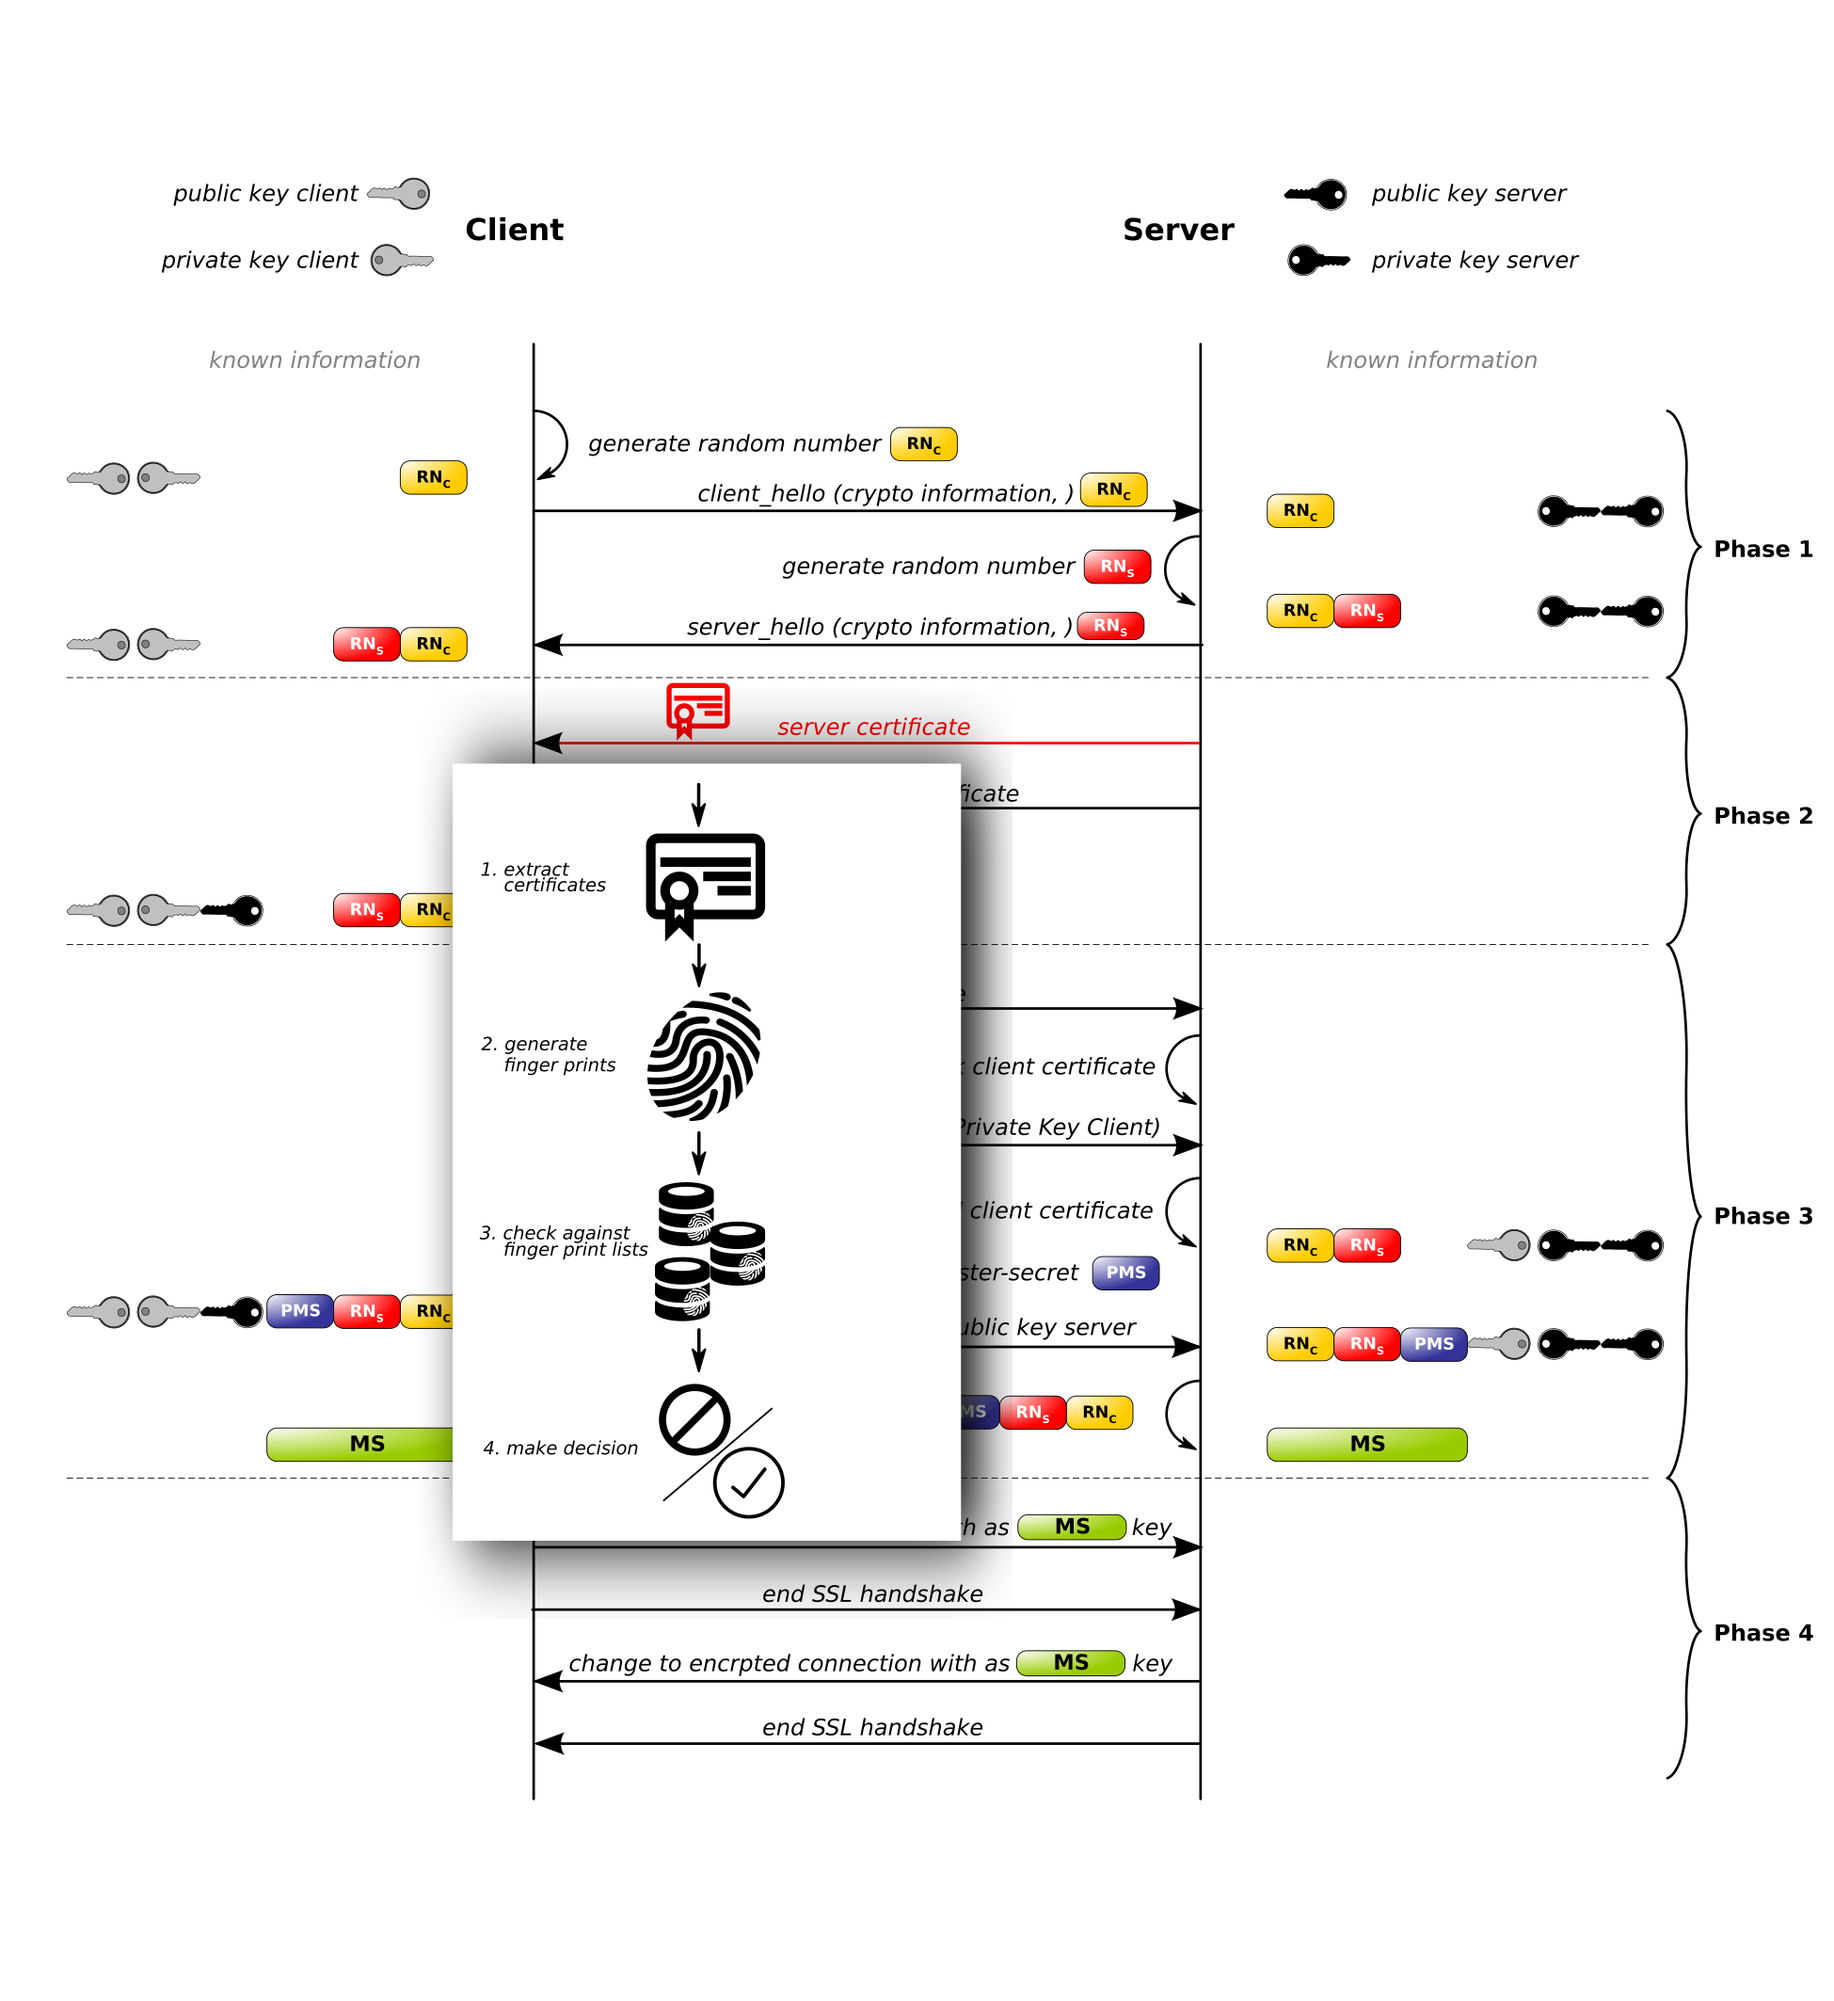
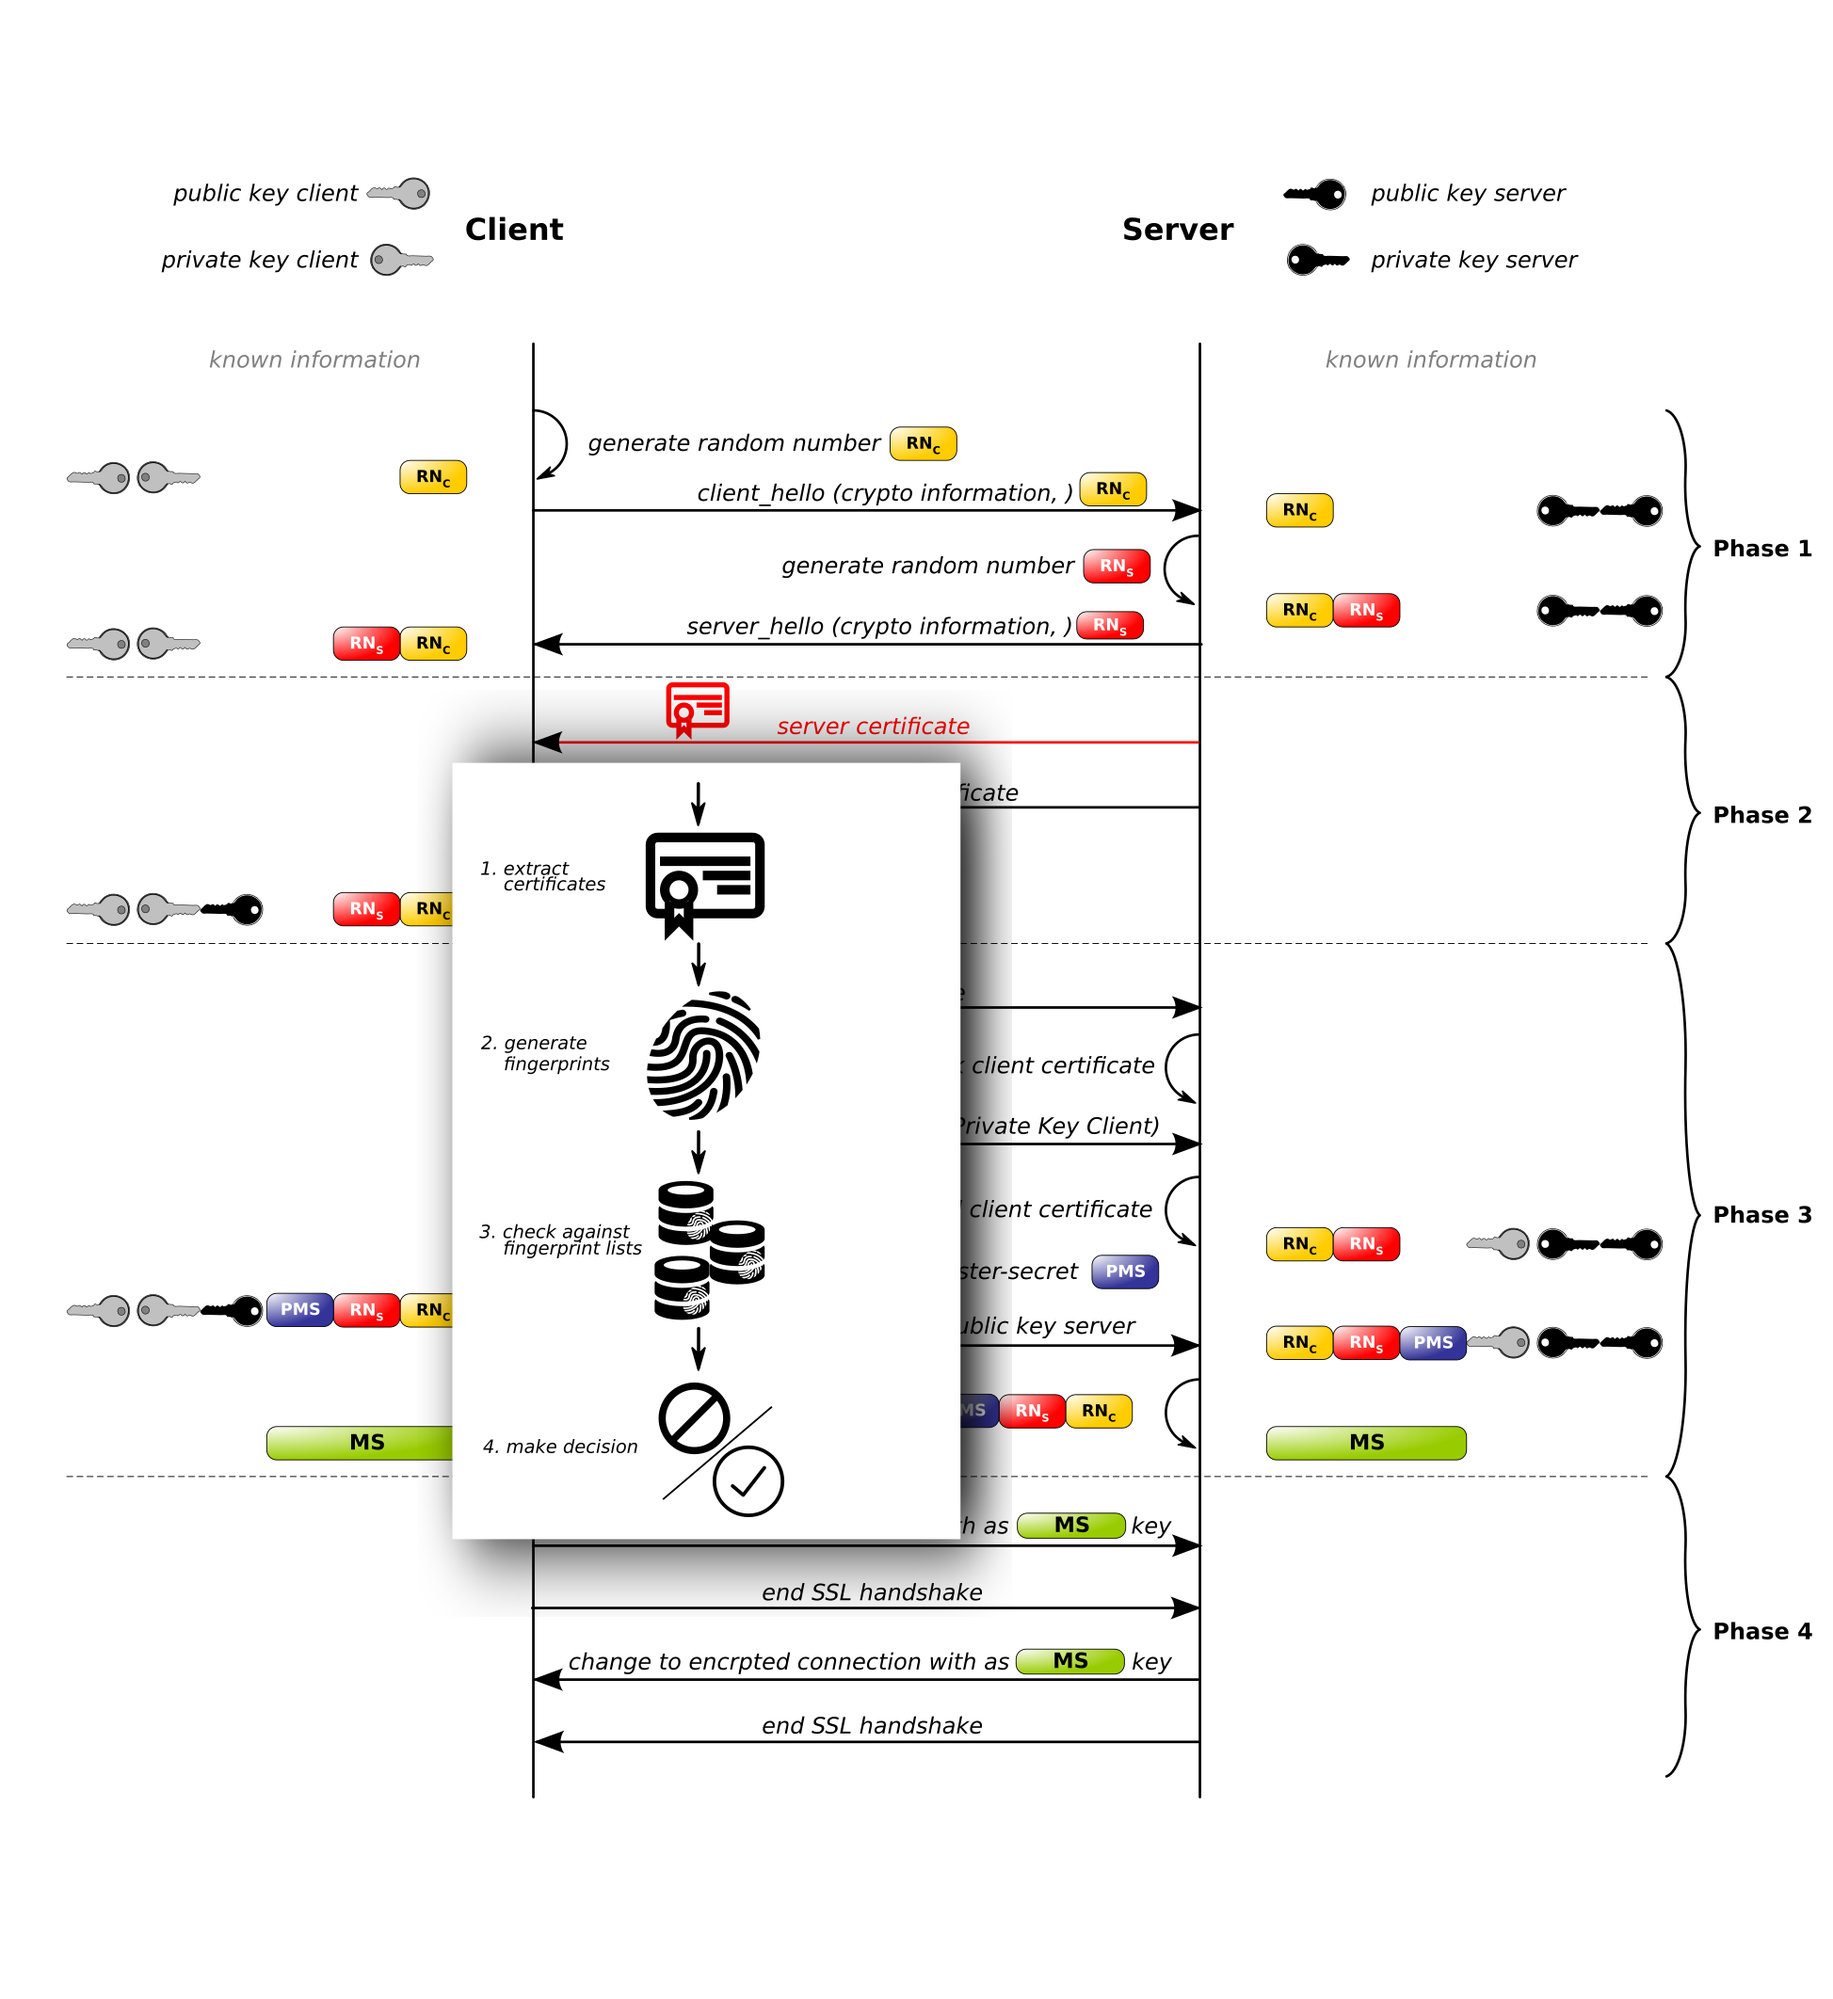
finger print -> fingerprint

diff --git a/_posts/2016-09-09-xt_sslpin.md b/_posts/2016-09-09-xt_sslpin.md
@@ -1,7 +1,7 @@
 ---
 layout: post
 categories: [networking, security]
-keywords: [SSL, TLS, certificate pinning, finger print]
+keywords: [SSL, TLS, certificate pinning, fingerprint]
 ---
 
 With [xt_sslpin] you can pin certificates at the netfilter level. Keeping users save from malicious or not trusted certificates.
@@ -94,20 +94,20 @@ This means we only block the **very first** changeCipherSpec message. TCP will r
 ![TCP retransmit of the changeCipherSpec message](/static/posts/xt_sslpin/retransmit.png) 
 *Frame 89 is a retransmission of frame 67 which contains the changeCipherSpec message*
 
-## Finger print pinning: [xt_sslpin]
+## Fingerprint pinning: [xt_sslpin]
 
-[xt_sslpin] works based on finger prints. A finger print is a [SHA1] hash of a x509 and DER encoded certificate. A collection of finger prints is called a finger print list. These lists are the key part when we specify an [iptables] rule:
+[xt_sslpin] works based on fingerprints. A fingerprint is a [SHA1] hash of a x509 and DER encoded certificate. A collection of fingerprints is called a fingerprint list. These lists are the key part when we specify an [iptables] rule:
 
-> iptables -I \<chain\> .. -m sslpin [!] --fpl \<finger print list id\> ..
+> iptables -I \<chain\> .. -m sslpin [!] --fpl \<fingerprint list id\> ..
 
-[xt_sslpin] extracts certificates transported in the server's certificate message, generates finger prints and matches them against finger print lists. Then it starts matching the rules immediately. This change allows for early stage abortion of malicious connections.
+[xt_sslpin] extracts certificates transported in the server's certificate message, generates fingerprints and matches them against fingerprint lists. Then it starts matching the rules immediately. This change allows for early stage abortion of malicious connections.
 
 ![handshake xt_sslpin](/static/posts/xt_sslpin/handshake_xt_sslpin.png)
 *[xt_sslpin] intercepted SSL/TLS handshake*
 
 ### Example usage
 
-You can retrieve the finger print of the github.com certificate using the following command:
+You can retrieve the fingerprint of the github.com certificate using the following command:
 
 ```shell
 echo \
@@ -116,22 +116,22 @@ echo \
 | sha1sum
 ```
 
-For managing finger print lists the kernel exposes a user space API under `/sys/kernel/xt_sslpin/`. Using this API should be straightforward.
+For managing fingerprint lists the kernel exposes a user space API under `/sys/kernel/xt_sslpin/`. Using this API should be straightforward.
 
 {:.table}
 | Operation | Command |
 | --------- | ------- |
-| ADD       | `echo finger-print-sha1 > /sys/kernel/xt_sslpin/<list id>_add` |
-| REMOVE    | `echo finger-print-sha1 > /sys/kernel/xt_sslpin/<list id>_rm`  |
+| ADD       | `echo fingerprint-sha1 > /sys/kernel/xt_sslpin/<list id>_add` |
+| REMOVE    | `echo fingerprint-sha1 > /sys/kernel/xt_sslpin/<list id>_rm`  |
 | LIST      | `ls /sys/kernel/xt_sslpin/<list id>` |
 
-Adding the just generated github.com finger print to list `0` is as simple as:
+Adding the just generated github.com fingerprint to list `0` is as simple as:
 
 ```shell
 echo d79f076110b39293e349ac89845b0380c19e2f8b > /sys/kernel/xt_sslpin/0_add
 ```
 
-The finger print list `0` can now be used in [iptables] as follows:
+The fingerprint list `0` can now be used in [iptables] as follows:
 
 ```shell
 iptables -I INPUT \
